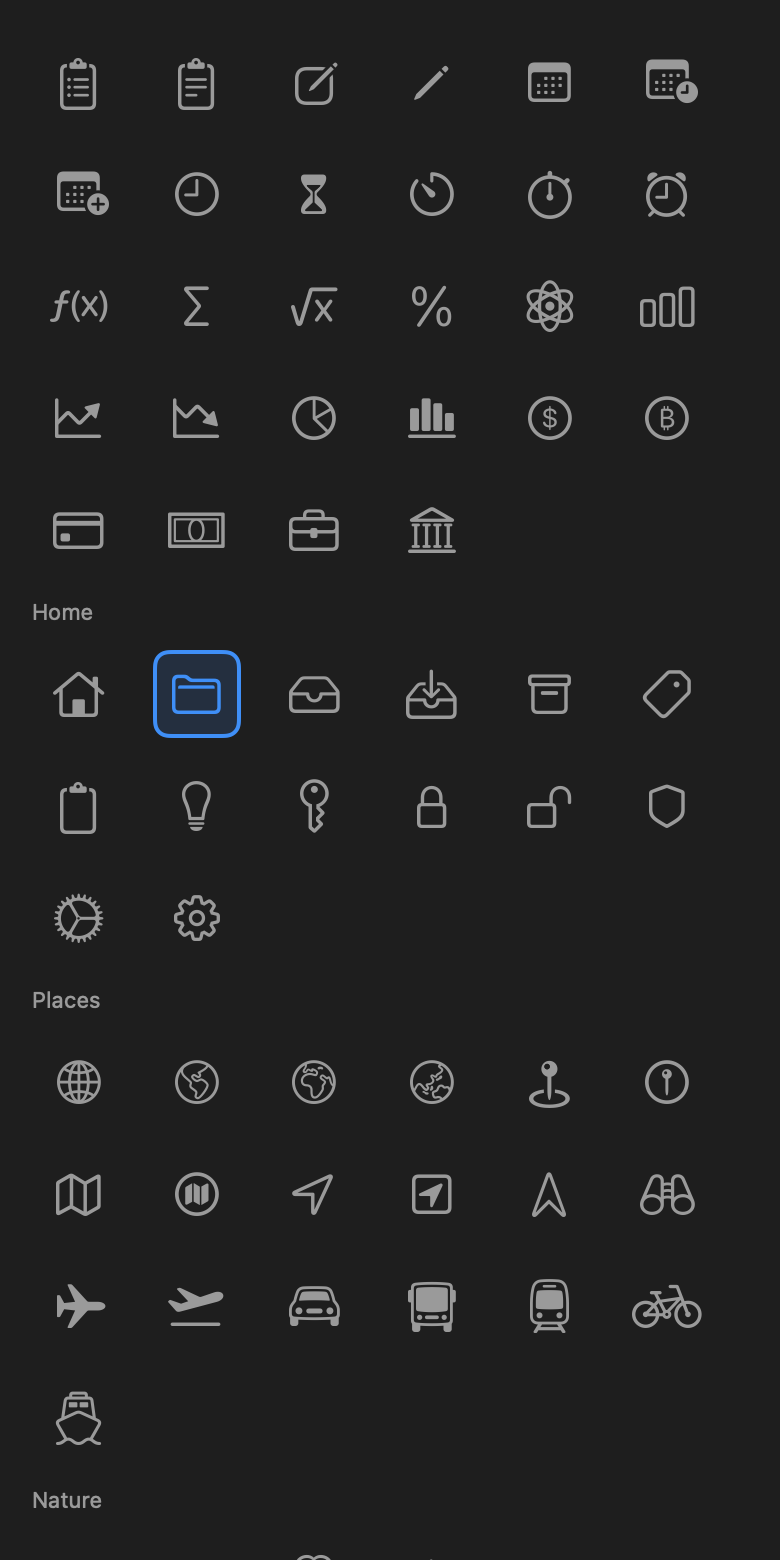
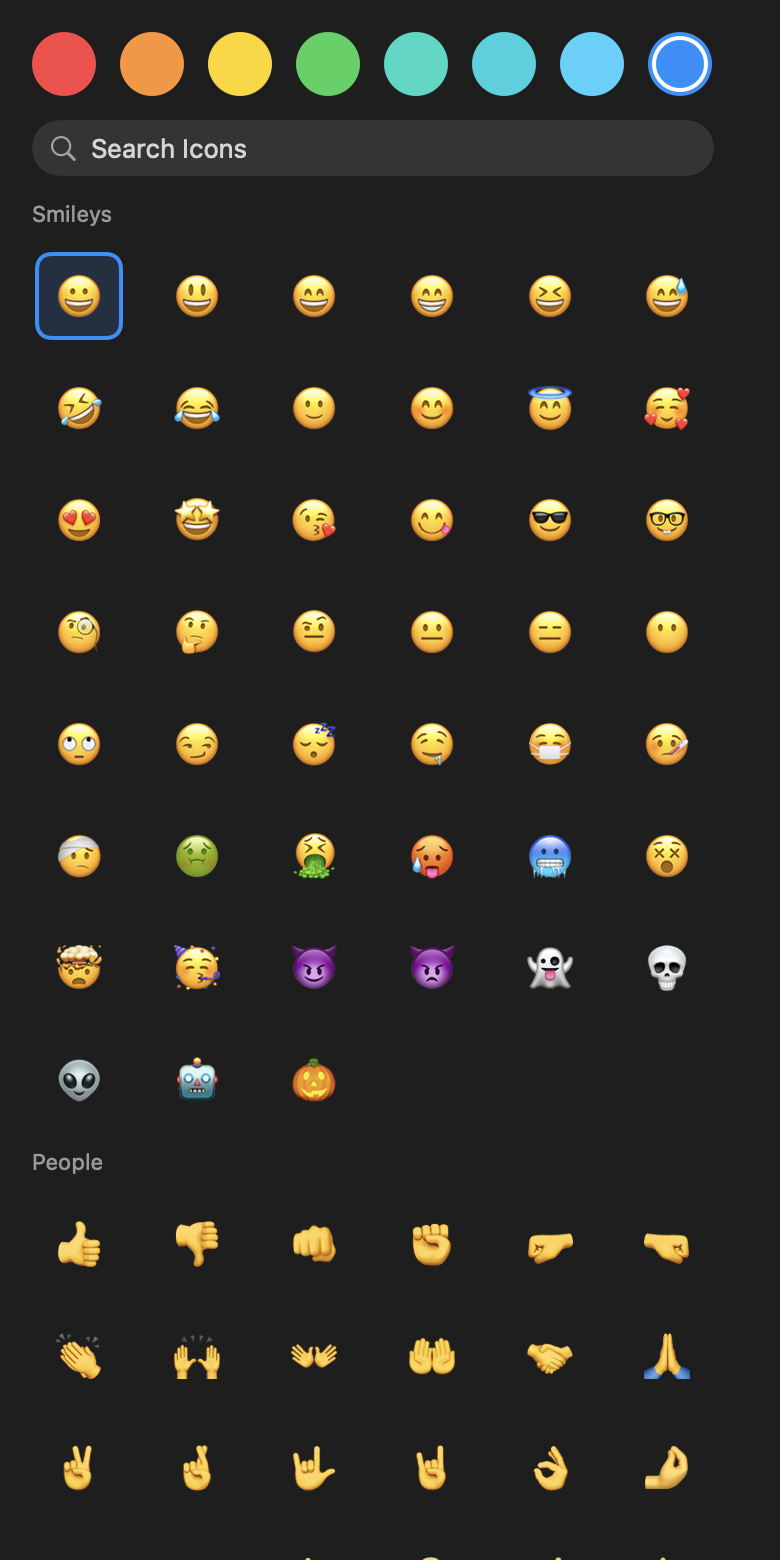
docs: show the top of the picker in stills
Seed the view shot with a Smileys icon so search and colors stay
on screen.

diff --git a/Sources/GenerateMedia/GenerateMedia.swift b/Sources/GenerateMedia/GenerateMedia.swift
@@ -91,7 +91,7 @@ struct GenerateMedia {
 }
 
 private struct ViewShot: View {
-    @State private var icon = "folder"
+    @State private var icon = "😀"
     @State private var color = IconPickerColor.blue
     let scheme: ColorScheme
 

diff --git a/README.md b/README.md
@@ -8,8 +8,8 @@ A SwiftUI picker for a tint color plus an emoji or SF Symbol. Bind two values th
 ## Preview
 
 <p>
-  <img src="Docs/Media/iconpickerkit-view-light.png" width="240" alt="IconPickerView in light mode: a meaning-grouped catalog with the current folder icon selected in the Home section.">
-  <img src="Docs/Media/iconpickerkit-view-dark.png" width="240" alt="IconPickerView in dark mode with the same sectioned catalog and selected folder.">
+  <img src="Docs/Media/iconpickerkit-view-light.png" width="240" alt="IconPickerView in light mode: color swatches, Search Icons, and the Smileys section of the mixed catalog.">
+  <img src="Docs/Media/iconpickerkit-view-dark.png" width="240" alt="IconPickerView in dark mode with the same color strip, search field, and Smileys section.">
 </p>
 
 `IconPickerView`. Present it in a sheet; you own Done.
